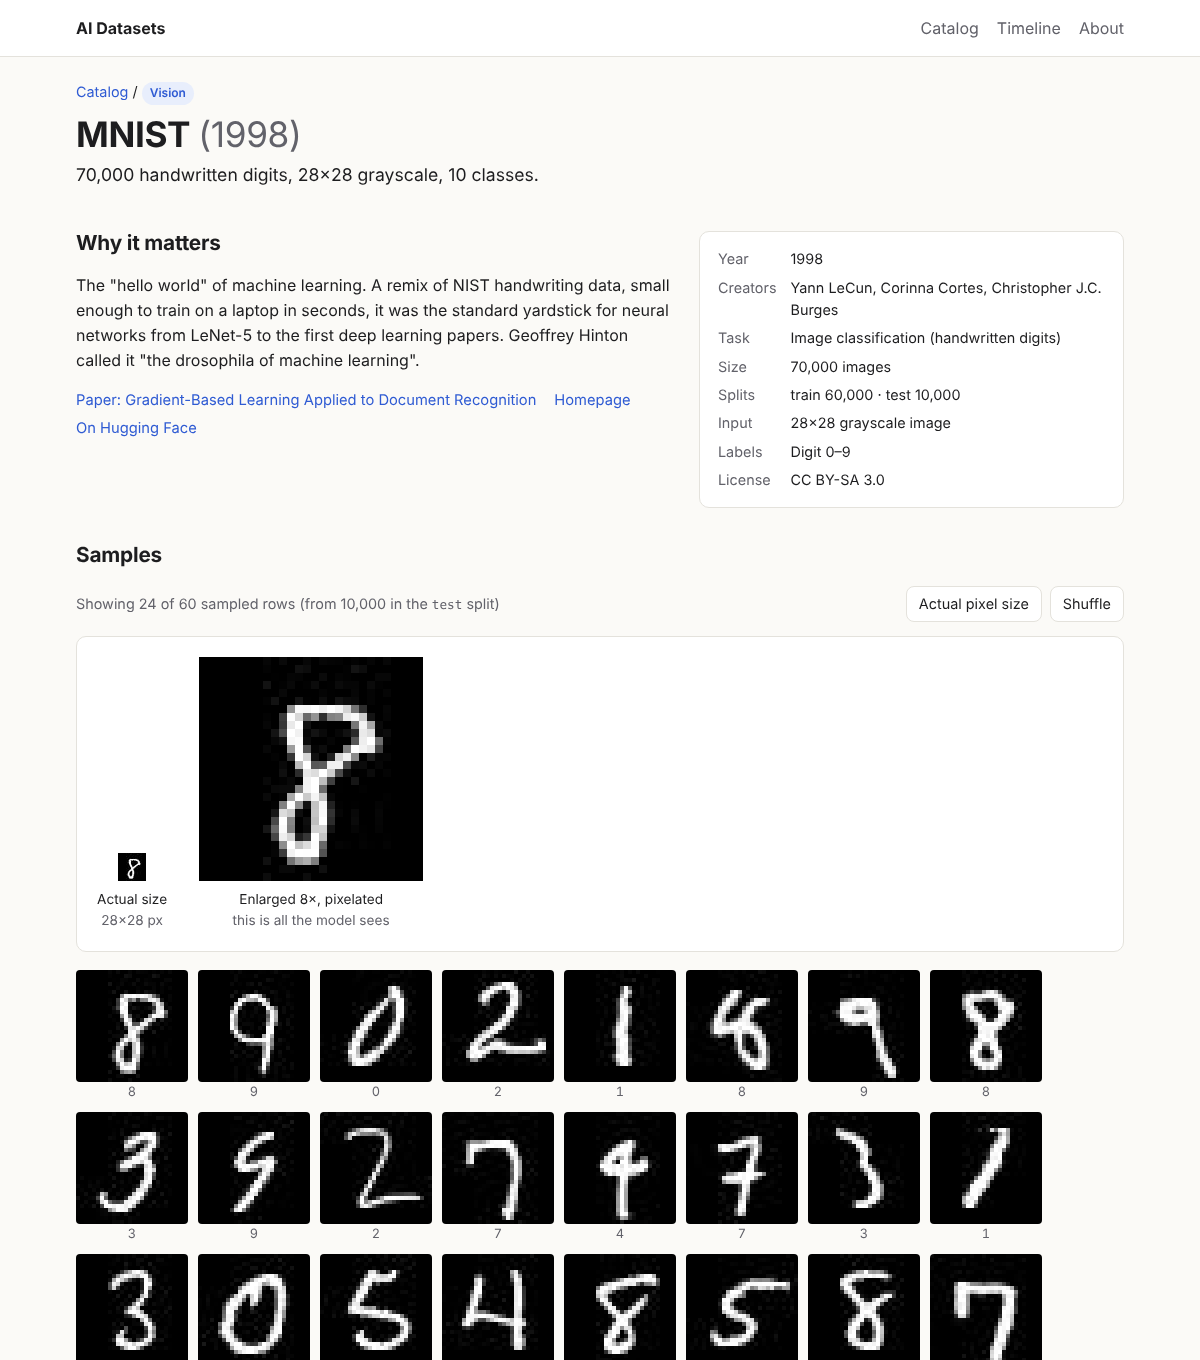
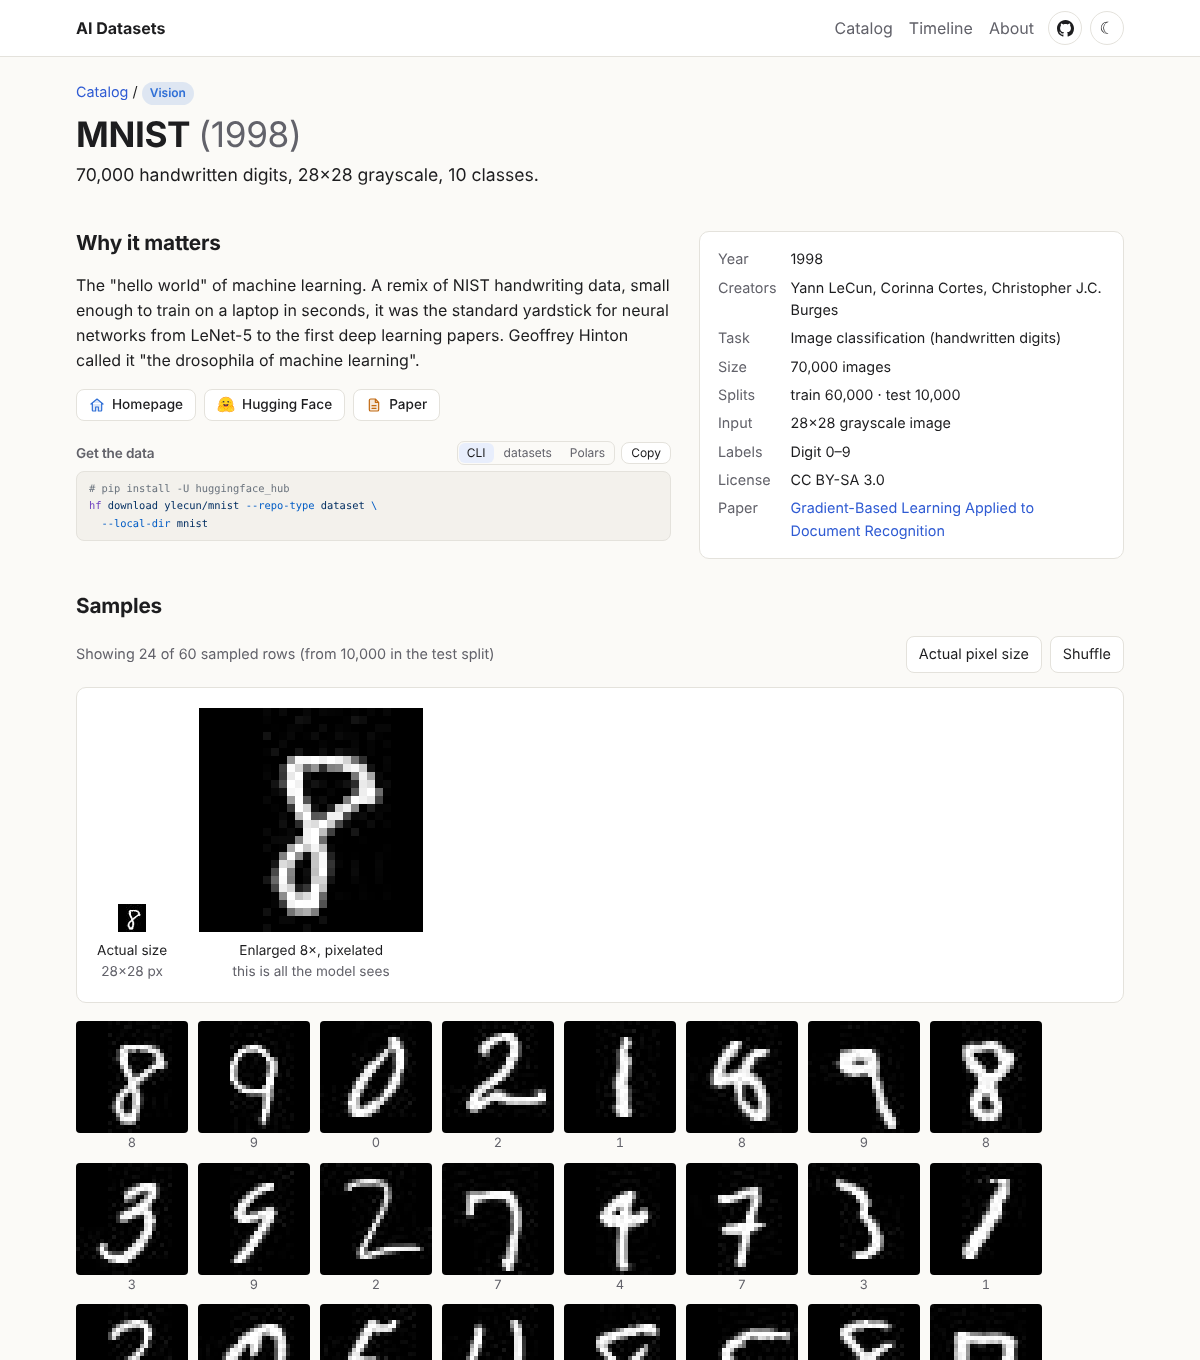
Docs: review README and About page; add a justfile
- README: fix the renderer table (five rows had lost their indentation
  and fell out of the table), list all 16 renderers and the categories,
  document the justfile, a "gotchas" list (viewer-unreadable repos, "+"
  in config names, gated datasets), checking samples before publishing,
  and a realistic first-fetch time. Drop Papers with Code (shut down).
  New screenshot of the current dataset page.
- About: dataset count from the catalog, accurate wording on community
  copies and gated benchmarks (linked, not sampled), a section on the
  download box, and a missing space before the viewer link.
- justfile: setup, fetch, refetch, check, dev, build, preview, new,
  deploy-refetch, clean.

diff --git a/README.md b/README.md
@@ -4,23 +4,25 @@
 [![Deploy](https://img.shields.io/github/actions/workflow/status/mralbu/ai-datasets/deploy.yml?branch=main&label=deploy&style=flat-square)](https://github.com/mralbu/ai-datasets/actions/workflows/deploy.yml)
 
 A small static site showing what classic AI datasets and benchmarks actually look like:
-a short description, the key facts, and real samples for each one.
+why each one mattered, the key facts, real samples, and a copy-paste snippet to download it.
 
 **→ [mralbu.github.io/ai-datasets](https://mralbu.github.io/ai-datasets/)**
 
-[![The MNIST page: key facts, a digit at its real 28×28 size next to an 8× enlargement, and a grid of samples](docs/screenshot.png)](https://mralbu.github.io/ai-datasets/d/mnist)
+[![The MNIST page: why it matters, link buttons, the download box, key facts, and a digit at its real 28×28 size next to an 8× enlargement](docs/screenshot.png)](https://mralbu.github.io/ai-datasets/d/mnist)
 
-Not a catalog. Hugging Face and Papers with Code already do that. The goal is a few dozen
-historically important datasets, each shown well enough that you come away knowing the data.
+Not a catalog; Hugging Face already does that. The goal is a few dozen historically important
+datasets across vision, LLMs, text, tabular data and audio, each shown well enough that you come
+away knowing the data.
 
 ## How it works
 
 ```
-datasets/<id>.yaml      one file per dataset: facts, description, HF source, display kind
-scripts/sample.py       (uv + polars + altair) samples rows from the Hugging Face dataset viewer
+datasets/<id>.yaml      one file per dataset: facts, description, Hugging Face source, how to display it
+scripts/sample.py       (uv: polars, altair, pillow) samples rows from the Hugging Face dataset viewer
                         into a snapshot, then copies it to src/generated/ and public/samples/
 src/                    Astro site: catalog, timeline, one page per dataset
 samples branch          the snapshot: sampled rows, media and a manifest (generated, data only)
+justfile                shortcuts for everything below (run `just` to list them)
 ```
 
 ### Where samples come from
@@ -35,66 +37,90 @@ A normal push touches Hugging Face not at all.
   The previous sample of that dataset is kept in the snapshot.
 - `manifest.json` on the branch records, per dataset, the Hugging Face revision and fetch time;
   each page shows it under the samples.
-- To re-fetch on purpose: run the deploy workflow manually with `refetch` set to dataset ids or
-  `all`, or bump `SAMPLER_VERSION` in `scripts/sample.py`.
+- To re-fetch on purpose: `just deploy-refetch <ids>` (or `all`), which runs the deploy workflow
+  with `refetch` set; or bump `SAMPLER_VERSION` in `scripts/sample.py`.
 - Taking a sample down: delete or edit it on the `samples` branch (squash or recreate the branch
   if it must leave history); nothing on `main` needs rewriting.
 - A monthly workflow (`check-sources.yml`) makes one tiny request per source and fails if a
-  dataset was renamed, gated or deleted upstream.
+  dataset was renamed, gated or deleted upstream. Run the same check locally with `just check`.
 
 ## Develop
 
+Needs Node 22+, [uv](https://docs.astral.sh/uv/) and, for the shortcuts, [just](https://just.systems/).
+
 ```sh
-npm install
-git fetch origin samples && git worktree add .samples samples   # reuse the published snapshot
-npm run fetch              # uv run scripts/sample.py: fetches only what is missing or changed
-BASE_PATH=/ npm run dev    # http://localhost:4321
+just setup     # npm install, and the published snapshot checked out in .samples/
+just fetch     # sample whatever is new or changed (nothing, right after setup)
+just dev       # http://localhost:4321
 ```
 
-Without the worktree, `.samples/` is just a local cache and the first `npm run fetch` fills it
-(about 3 minutes). Other options: `uv run scripts/sample.py <id>` (only that dataset),
-`--force` (re-fetch even if unchanged), `--check` (health check only).
+| command | does |
+|---|---|
+| `just fetch [ids…]` | sample datasets that are new or changed (all, or only the given ids) |
+| `just refetch ids…` | re-sample the given ids even if unchanged |
+| `just check` | check that every Hugging Face source still serves rows |
+| `just dev` | dev server at the site root |
+| `just build` / `just preview` | build at the site root (as `dev` does), and serve it locally |
+| `just new <id> <like>` | start `datasets/<id>.yaml` from an existing entry |
+| `just deploy-refetch ids…` | run the deploy workflow on GitHub with forced re-fetches (needs `gh`) |
+| `just clean` | remove build output and caches (keeps `.samples/`) |
+
+Without just, the same commands are `npm install`, `uv run scripts/sample.py [--force|--check] [ids…]`
+and `BASE_PATH=/ npm run dev`. Without the `samples` worktree, `.samples/` is just a local cache and
+the first fetch fills it, which takes 10 minutes or more for the whole catalog.
 
 ## Add a dataset
 
-1. Copy a similar entry in `datasets/*.yaml` and fill it in. `display.kind` picks the renderer
-   (field names are columns of the Hugging Face dataset):
+1. `just new <id> <similar-id>` and fill it in. `modality` is the category (`vision`, `text`,
+   `benchmark` (shown as "LLMs"), `tabular`, `audio`, `other`). `display.kind` picks the renderer;
+   field names are columns of the Hugging Face dataset:
 
    | kind | fields | used by |
    |---|---|---|
-   | `image` | `image`, `label`, `scale` (enlarge tiny images), `thumb` (px height for photos), `class_grid`, `short_labels` | MNIST, Fashion-MNIST, CIFAR-10, ImageNet |
-   | `boxes` | `image`, `objects` (COCO-style `bbox` `[x, y, w, h]` + a label list), `label` (its name, default `label`) | COCO, Pascal VOC |
-   | `text` | `text`, `label`, `summary` (shown on demand), `caption` (small line, e.g. a URL) | IMDB, 20 Newsgroups, CNN/DailyMail, C4 |
-   | `extractive` | `context`, `question`, `answers`, `title` | SQuAD |
+   | `image` | `image`, `label`, `scale` (enlarge tiny images), `thumb` (px height for photos), `class_grid`, `short_labels` | MNIST, Fashion-MNIST, CIFAR-10, SVHN, ImageNet |
+   | `boxes` | `image`, `objects` (COCO-style `bbox` `[x, y, w, h]` + a label list), `label` (its name, default `label`) | COCO, PASCAL VOC |
+   | `segmentation` | `image`, `objects` (ADE20K-style: `name`, `polygon {x, y}`, `depth_ordering_rank`, `parts.part_level`), `scene` | ADE20K |
+   | `annotated` | `image`, `captions` (list) or `attributes: true` (yes/no columns), `thumb` | Flickr30k, CelebA |
+   | `text` | `text`, `label`, `summary` (shown on demand), `caption` (small line, e.g. a URL) | IMDB, 20 Newsgroups, WikiText-103, CNN/DailyMail, C4 |
    | `record` | `label`; shows every text field, per config | GLUE, SuperGLUE, SNLI |
-   | `qa` | `question`, `answer`, `tags` (fields shown as tags), `math` (render LaTeX with KaTeX), `input`, `wrong` (list of false answers), `answer_label` | GSM8K, MATH, TruthfulQA, Alpaca |
+   | `extractive` | `context`, `question`, `answers`, `title` | SQuAD |
+   | `translation` | `translation` (a Translation feature), `source`, `target` (language codes) | WMT14 |
+   | `qa` | `question`, `answer`, `tags` (fields shown as tags), `math` (LaTeX via KaTeX), `input`, `wrong` (list of false answers), `answer_label` | GSM8K, MATH, TruthfulQA, Alpaca |
    | `mcq` | `question`, `choices` (a list, or `{text, label}`), `answer` (index or key), `subject` | MMLU, HellaSwag, AI2 ARC |
+   | `image_mcq` | `images` (list of image columns), `question`, `options`, `answer` (letter), `subject` | MMMU |
    | `code` | `prompt`, `solution`, `tests`, `title`; `*_lang` (Shiki language, `text` for prose) and `*_label` | HumanEval, SWE-bench |
-   | `audio` | `audio`, `text` and/or `label` (class or list of classes), `speaker` | LibriSpeech, AudioSet, Speech Commands, LJSpeech |
+   | `preference` | `chosen`, `rejected` (Human:/Assistant: transcripts) | Anthropic HH-RLHF |
    | `grid` | `train`, `test` (ARC-style pairs of integer grids) | ARC-AGI |
-   | `table` | optional `chart: {type: scatter \| rate, x, y, color}`, `columns` | Iris, Titanic, Palmer Penguins, MovieLens |
-| `annotated` | `image`, `captions` (list) or `attributes: true` (yes/no columns), `thumb` | Flickr30k, CelebA |
-| `image_mcq` | `images` (list of image columns), `question`, `options`, `answer` (letter), `subject` | MMMU |
-| `segmentation` | `image`, `objects` (ADE20K-style: `name`, `polygon {x, y}`, `depth_ordering_rank`, `parts.part_level`), `scene` | ADE20K |
-| `preference` | `chosen`, `rejected` (Human:/Assistant: transcripts) | Anthropic HH-RLHF |
-| `translation` | `translation` (a Translation feature), `source`, `target` (language codes) | WMT14 |
+   | `audio` | `audio`, `text` and/or `label` (a class or a list of classes), `speaker` | LibriSpeech, AudioSet, Speech Commands, LJSpeech |
+   | `table` | `columns` (default: all); `chart: {type: scatter \| rate, x, y, color}` | Iris, Titanic, Palmer Penguins, MovieLens |
 
-   Useful `source` options: `n` (rows to sample), `seed`, `fetch_all: true` (small tables, needed for
-   charts), `configs: [...]` (sample several configs, like GLUE's tasks), and `rows_per_page`
-   (default 8; lower it when the split is sorted by a label with many values, as ImageNet's is),
-   `min_length: {field: n}` (skip rows whose field is shorter, like WikiText's blank lines),
-   `drop: [columns]` (leave columns out of the sample) and `max_image_px` (downscale big photos;
-   annotations keep their original coordinates).
+   Useful `source` options:
+   - `n` (rows to sample) and `seed`.
+   - `configs: [...]` samples several configs, like GLUE's tasks or MMMU's subjects.
+   - `fetch_all: true` reads a small table whole (needed for charts).
+   - `rows_per_page` (default 8): lower it when the split is sorted by a label with many values,
+     as ImageNet's is.
+   - `min_length: {field: n}` skips rows whose field is shorter, like WikiText's blank lines.
+   - `drop: [columns]` leaves columns out of the sample.
+   - `max_image_px` downscales big photos; annotations keep their original coordinates.
 
-   Each page has a "Get the data" box with copy-paste snippets for the `hf` CLI, 🤗 `datasets` and
-   Polars, built from `source`. Override it with an optional `download` block: `hf` (the canonical
-   repo when the sample comes from a mirror), `config`, `split`, `include` (glob for
-   `hf download --include`, for one config of a big repo), `revision`, `gated: true` and `note`.
-2. `uv run scripts/sample.py <id>` and check the page with `BASE_PATH=/ npm run dev`.
+   The "Get the data" box shows snippets for the `hf` CLI, 🤗 `datasets` and Polars, built from
+   `source`. Override it with an optional `download` block: `hf` (the canonical repo, when the sample
+   comes from a mirror), `config`, `split`, `include` (glob for `hf download --include`, for one config
+   of a big repo), `revision`, `gated: true` and `note`.
+2. `just fetch <id>` and check the page with `just dev`. Look at the sampled rows before publishing:
+   some datasets contain offensive material, and a different `seed` picks other rows.
 3. Related datasets (`lineage`) take `hf: <owner/name>` to link to Hugging Face, or `url:` when
-   there is no HF copy, and `id:` when the dataset also has a page on this site.
+   there is no HF copy, and `id:` when the dataset also has a page on this site. Link back from the
+   related entries too.
 
 The schema lives in `src/content.config.ts`; the build fails on a malformed entry.
+
+Gotchas:
+- Some Hugging Face repos are not readable by the dataset viewer (loading scripts, odd layouts).
+  Search for a community Parquet copy with a working viewer and say so in `download.note`.
+- The viewer's signed media links fail for config names containing `+`; use another copy.
+- Gated datasets (GPQA, Humanity's Last Exam) cannot be sampled. Link them from `lineage` instead.
 
 ## Deploy
 
